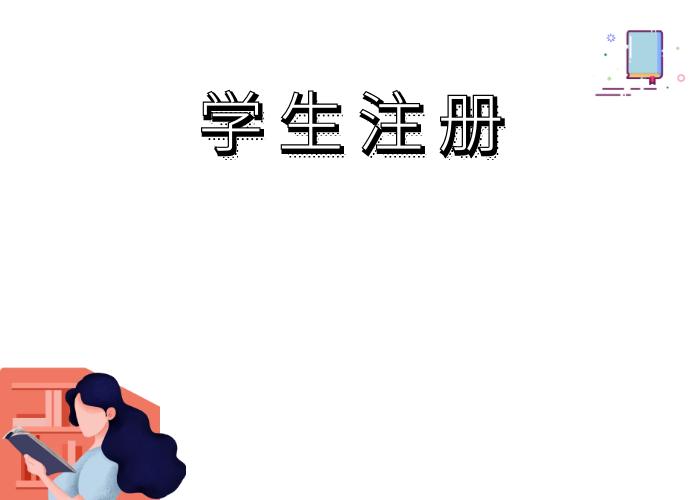
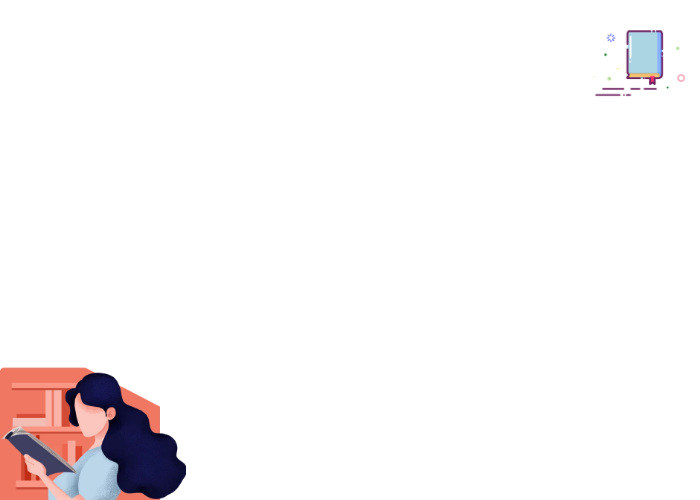
背景图片更改

Changed region(s): [[0.27, 0.18, 0.72, 0.33]]

diff --git a/src/UI/UserSignInterface.java b/src/UI/UserSignInterface.java
@@ -10,8 +10,9 @@ import java.awt.event.ActionListener;
 
 public class UserSignInterface extends JFrame  implements ActionListener {
 	private final JPanel pan = new JPanel();
+	private ImageIcon ima;
     JTextField t1,t2,t3,t5,t7;
-    JLabel name,namelab,passlab,doublepasslab,sex,information;
+    JLabel background,name,namelab,passlab,doublepasslab,sex,information;
     JRadioButton boy,girl;
     JButton confirm,cancel;
     ButtonGroup buttonGroup=new ButtonGroup();
@@ -19,8 +20,11 @@ public class UserSignInterface extends JFrame  implements ActionListener {
 
 
     UserSignInterface(){
+    	pan.setBackground(Color.WHITE);
     	pan.setLayout(null);
         Font font = new Font("宋体", Font.BOLD, 15);
+        super.setTitle("学生注册");
+        
         //账号
         namelab=new JLabel("账号");
         t1=new JTextField(18);
@@ -93,10 +97,16 @@ public class UserSignInterface extends JFrame  implements ActionListener {
         confirm.setBounds(150,380,90,30);
         cancel.setBounds(280,380,90,30);
 
+        ima=new ImageIcon("./images/学生注册页面.png");//写入文件路径
+        background=new JLabel(ima);
+        background.setBackground(Color.WHITE);
+        pan.add(background);
+        background.setBounds(0,0,600,600);
+        
         //添加事件监听
         confirm.addActionListener(this);
         cancel.addActionListener(this);
-        this.add(pan);
+        getContentPane().add(pan);
         this.setSize(600, 600);
         this.setVisible(true);
         //关闭该窗体，应用程序不退出，继续显示登陆界面
